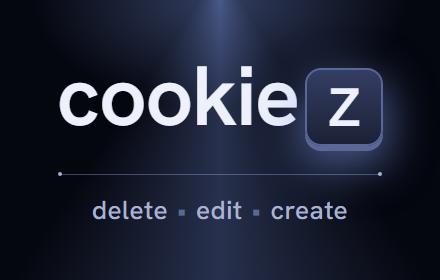
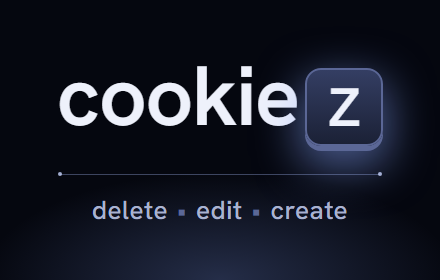
Promo tile: a soft glow from the bottom centre, not a beam

Changed region(s): [[0.1773, 0.0, 0.7977, 0.8571]]

diff --git a/tests/make_promo_tile.py b/tests/make_promo_tile.py
@@ -11,8 +11,8 @@ The tile is just the name, a line, and three words. In search results it's
 shown at less than half size, next to the name and icon, so anything more
 detailed can't be read.
 
-It's the website's look: a dark page lit from above, with the Z as a dark
-keycap that gives off light. The keycap stops the name looking like a typo
+It's the website's look, kept quiet: a dark page with a soft glow rising
+from the bottom centre, and the Z as a dark keycap that gives off light. The keycap stops the name looking like a typo
 for "cookies". Because it's a raised shape and not just a different colour,
 it still stands out when the tile is small.
 
@@ -49,12 +49,9 @@ PAGE = """<!DOCTYPE html>
   body {{
     display: flex; flex-direction: column;
     align-items: center; justify-content: center;
-    /* The dark page, with the beam falling from the top centre. */
+    /* The dark page, with a soft glow coming up from the bottom centre. */
     background:
-      radial-gradient(ellipse 260px 150px at 50% 0, rgba(138, 168, 255, 0.34), transparent 72%),
-      conic-gradient(from 180deg at 50% -30px,
-        rgba(138, 168, 255, 0.26) 0deg, transparent 34deg,
-        transparent 326deg, rgba(138, 168, 255, 0.26) 360deg),
+      radial-gradient(ellipse 330px 150px at 50% 100%, rgba(138, 168, 255, 0.24), transparent 72%),
       #05070f;
     font-family: "Hanken Grotesk", sans-serif;
     color: #eef1fb;
